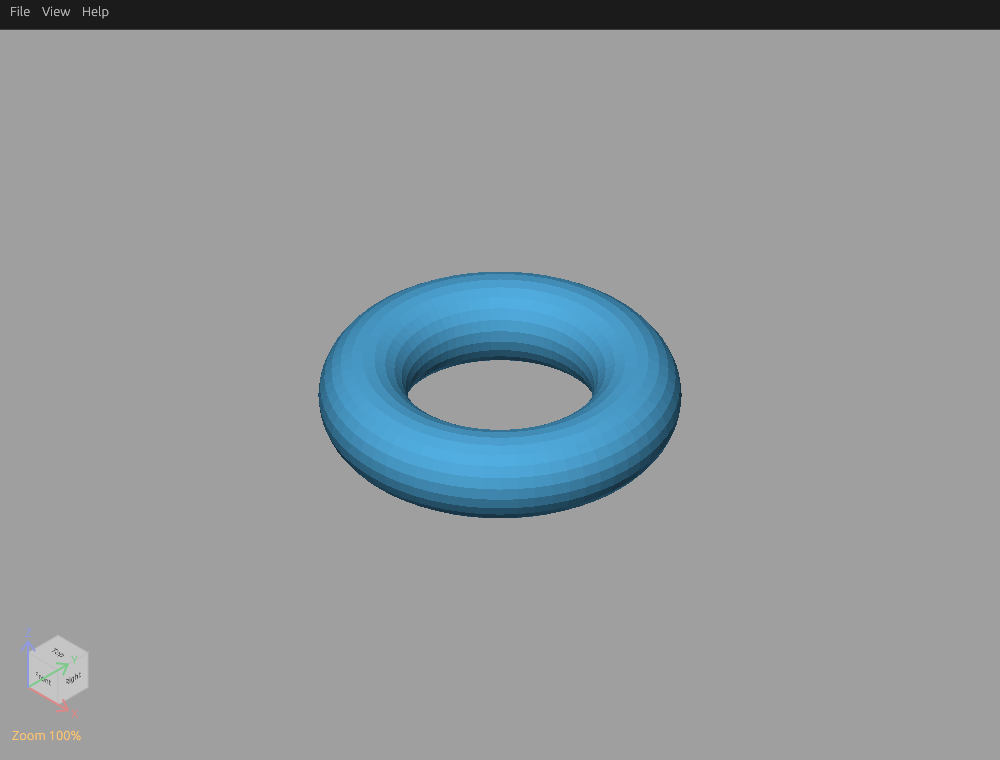
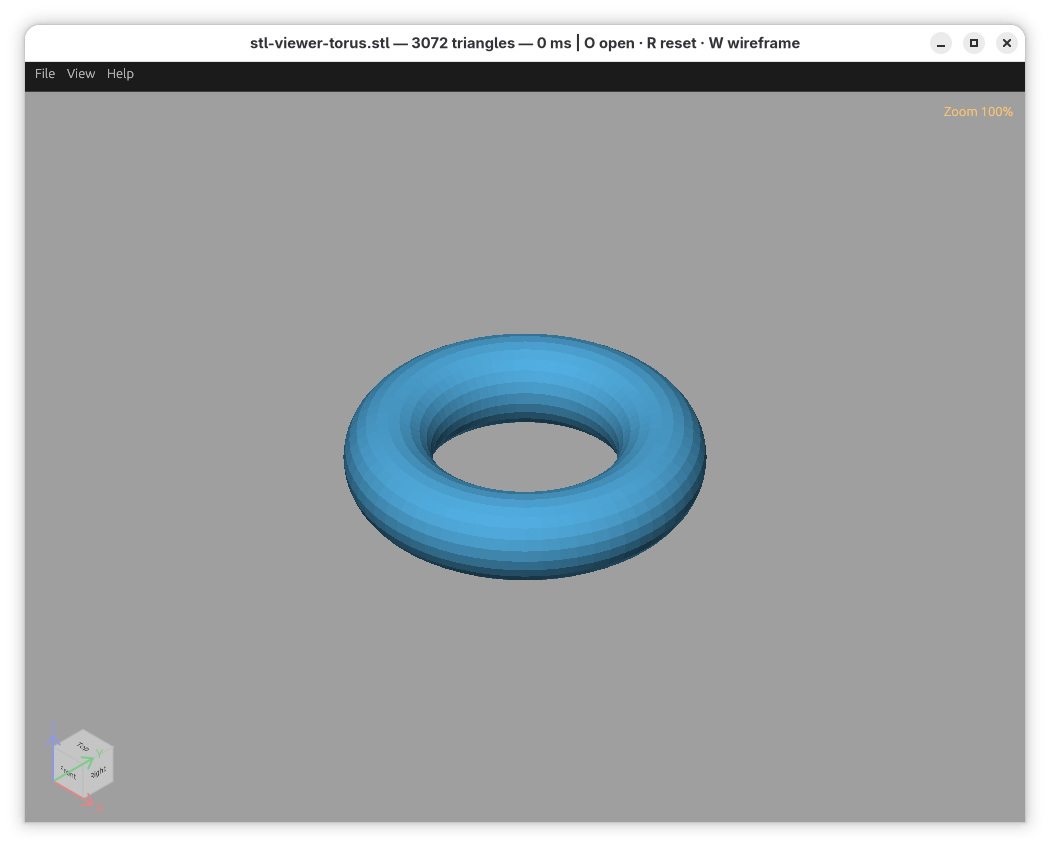
docs: update README

Changed region(s): [[0.0, 0.0, 1.0, 1.0], [0.31, 0.3329, 0.682, 0.6053], [0.341, 0.6053, 0.651, 0.6961]]

diff --git a/README.md b/README.md
@@ -1,22 +1,27 @@
-![STL Viewer](docs/screenshot.png)
+<h1 align="center">STL Viewer</h1>
+
+<p align="center">
+  <img src="docs/screenshot.png" alt="STL Viewer" width="640">
+</p>
+
+<p align="center">English | <a href="README.zh-CN.md">简体中文</a></p>
 
 ## Intro
 
-- **Binary: 8.0 MiB**（x86_64 release）
-- **RAM: 约 64 MiB**（本机打开小型 STL 后的进程 RSS，不含 GPU 显存）
+- **Binary: 8.0 MiB**
+- **RAM: ~64 MiB**
+- **Starts and opens STL files in under 10 ms (⚡ Rust + egui)** (~99% less CLI loading time than Bambu Studio)
 
-极度精简、启动飞快的原生 Linux STL viewer，支持 Wayland / X11。
+A minimal, fast-starting native Linux STL viewer with Wayland / X11 support.
 
-在自己电脑上，用三个 STL 样本测试启动并读取文件的耗时：
+CLI startup and file loading times for three STL samples:
 
-| 样本 | STL Viewer | Bambu Studio | Blender |
+| Sample | STL Viewer | Bambu Studio | Blender |
 | --- | ---: | ---: | ---: |
 | A · 2.0 KiB | **1.5 ms** | 203.0 ms | 443.8 ms |
 | B · 24.1 KiB | **1.6 ms** | 192.5 ms | 446.1 ms |
 | C · 87.2 KiB | **1.4 ms** | 193.2 ms | 463.9 ms |
 
-每项重复三次取中位数，未清空文件缓存。测量范围为进程启动至 CLI 读取完成并退出：本项目 `info`、Bambu Studio 2.8.2 `--info`、Blender 5.2.1 后台导入 STL；包含各自初始化及统计开销，不代表 GUI 主窗口或首帧显示时间。
-
 ## Install
 
-1. 从 [GitHub Releases](https://github.com/ctxinf/stl-viewer-rs/releases/latest) 下载对应的 x86_64 安装包，用系统软件安装器打开安装：Debian / Ubuntu 选 `.deb`，Fedora 选 `.rpm`，Arch / Manjaro 选 `.pkg.tar.zst`。需要 glibc 2.35+ 和 OpenGL 3.1+。
+Download the x86_64 package for your distribution from [GitHub Releases](https://github.com/ctxinf/stl-viewer-rs/releases/latest) and open it with your system’s software installer: `.deb` for Debian / Ubuntu, `.rpm` for Fedora, or `.pkg.tar.zst` for Arch / Manjaro. Requires glibc 2.35+ and OpenGL 3.1+.

diff --git a/README.zh-CN.md b/README.zh-CN.md
@@ -1,0 +1,27 @@
+<h1 align="center">STL Viewer</h1>
+
+<p align="center">
+  <img src="docs/screenshot.png" alt="STL Viewer" width="640">
+</p>
+
+<p align="center"><a href="README.md">English</a> | 简体中文</p>
+
+## 简介
+
+- **二进制体积：8.0 MiB**
+- **内存占用：约 64 MiB**
+- **可以在 10 ms 内启动打开（⚡ Rust + egui）**（CLI 加载耗时比 Bambu Studio 减少约 99%）
+
+极度精简、启动飞快的原生 Linux STL viewer，支持 Wayland / X11。
+
+三个 STL 样本的 CLI 启动及文件加载耗时：
+
+| 样本 | STL Viewer | Bambu Studio | Blender |
+| --- | ---: | ---: | ---: |
+| A · 2.0 KiB | **1.5 ms** | 203.0 ms | 443.8 ms |
+| B · 24.1 KiB | **1.6 ms** | 192.5 ms | 446.1 ms |
+| C · 87.2 KiB | **1.4 ms** | 193.2 ms | 463.9 ms |
+
+## 安装
+
+从 [GitHub Releases](https://github.com/ctxinf/stl-viewer-rs/releases/latest) 下载对应的 x86_64 安装包，用系统软件安装器打开安装：Debian / Ubuntu 选 `.deb`，Fedora 选 `.rpm`，Arch / Manjaro 选 `.pkg.tar.zst`。需要 glibc 2.35+ 和 OpenGL 3.1+。
